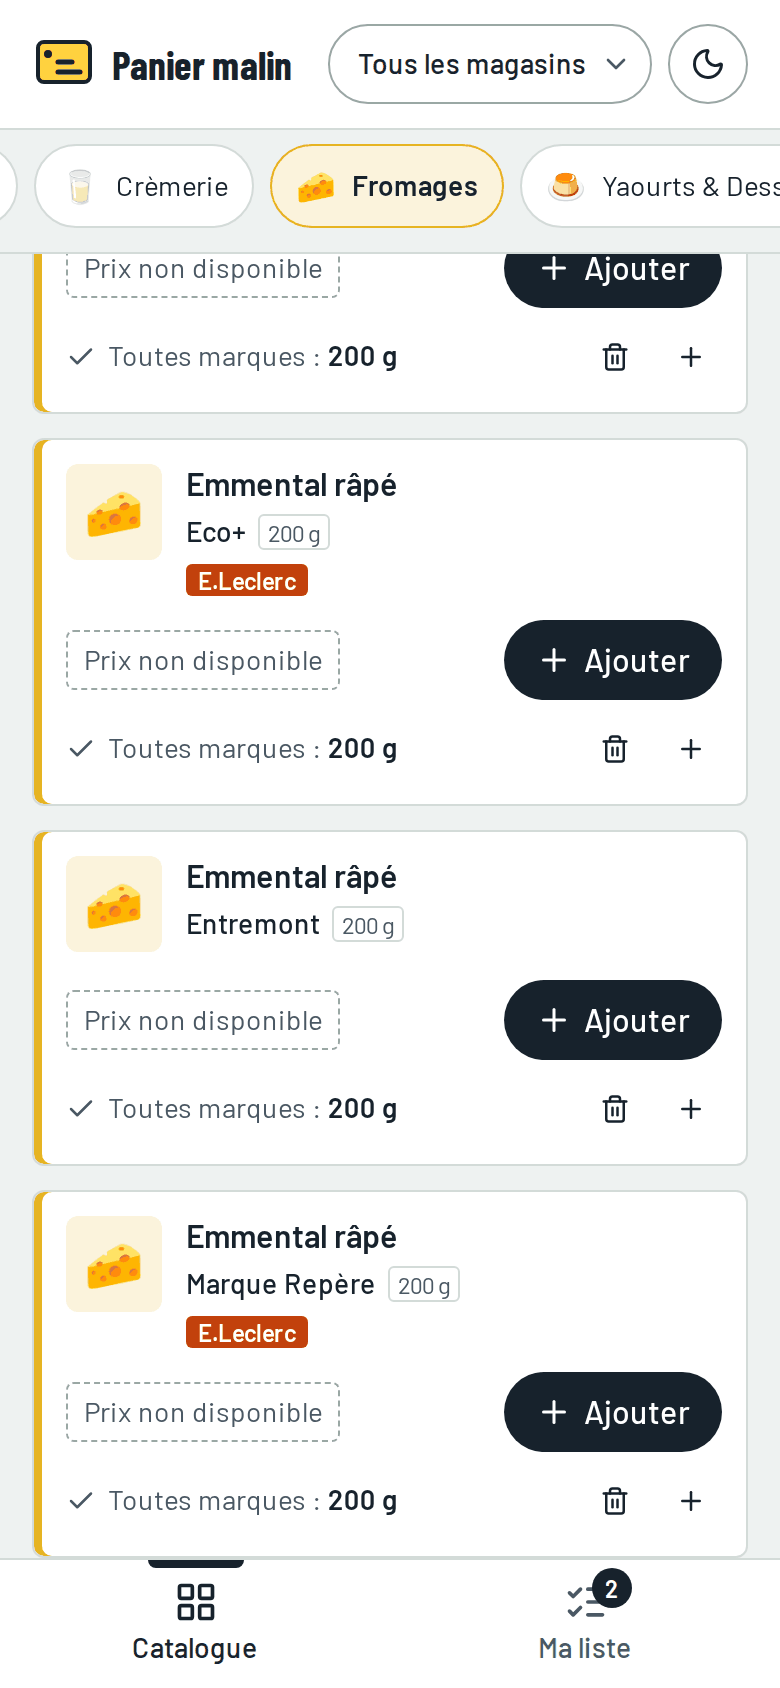
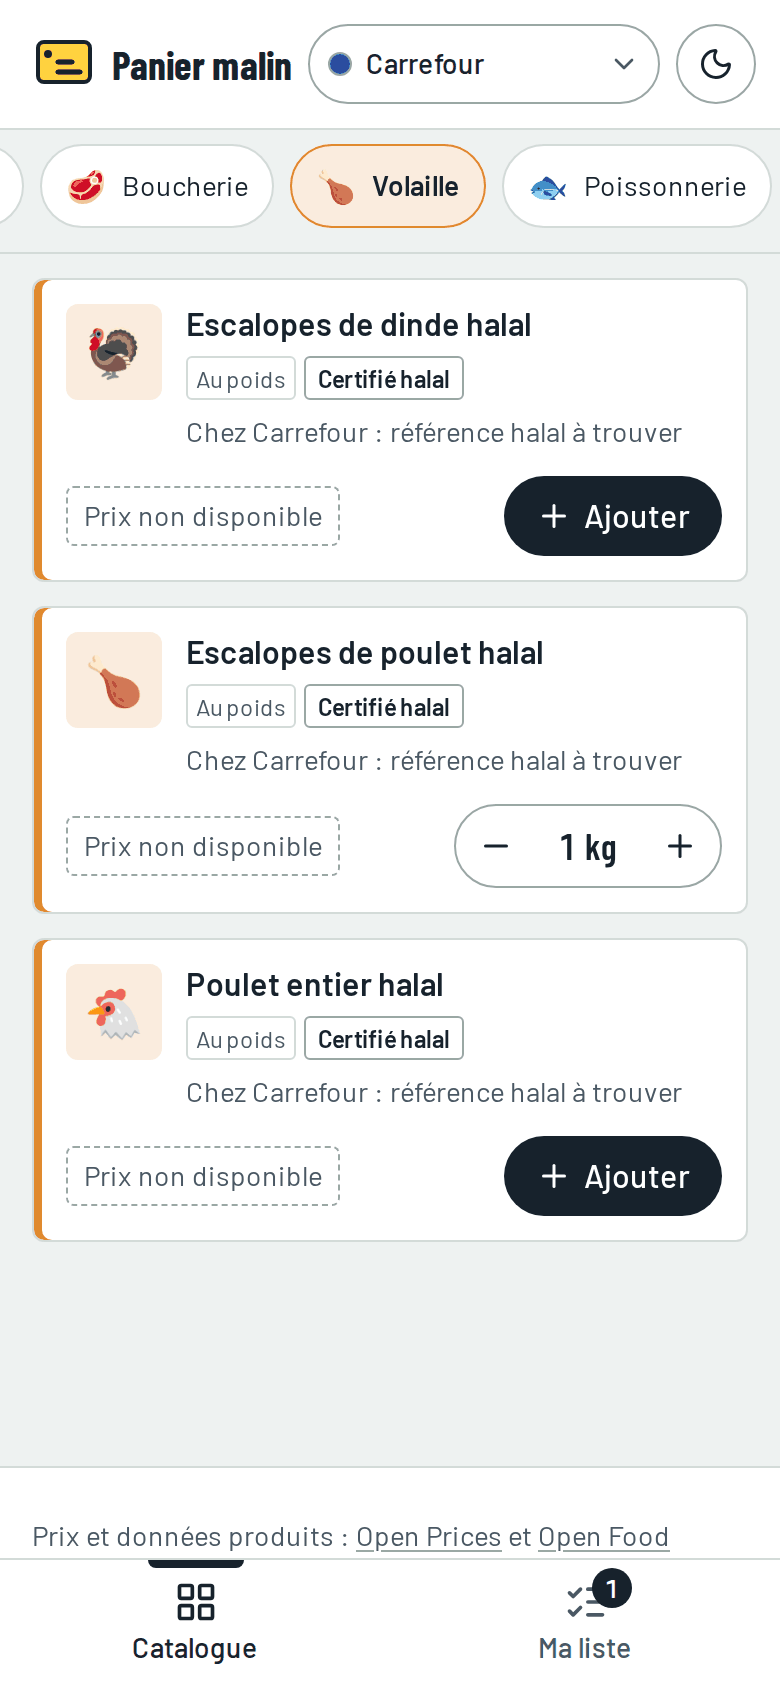
docs: décrit le catalogue halal et les fiches produit
README et guide de contribution : format des fiches et des références,
règles halal, choix de la gamme la moins chère. Modèles de tickets :
« Corriger une fiche ou une référence » remplace la correction
d'équivalence, l'ajout de produit demande la marque la moins chère de
chaque enseigne. Captures d'écran mises à jour.

diff --git a/README.md b/README.md
@@ -7,22 +7,20 @@ Application web libre, sans compte ni serveur : tout reste dans votre navigateur
 > **État du projet : étape 1 sur 6 terminée (catalogue).** Les prix Open Prices, le comparateur, le panier optimal et l'export PDF arrivent dans les étapes suivantes, décrites dans la [feuille de route](#feuille-de-route).
 
 <p>
-  <img src="docs/captures/catalogue-mobile.png" width="260" alt="Catalogue sur mobile : rayon Fromages, cartes produit avec étiquette de prix et bouton Ajouter">
+  <img src="docs/captures/catalogue-mobile.png" width="260" alt="Catalogue sur mobile : rayon Volaille, fiches certifiées halal, magasin Carrefour choisi">
   <img src="docs/captures/liste-mode-sombre.png" width="260" alt="Liste de la semaine en mode sombre, classée par rayon">
 </p>
-<img src="docs/captures/catalogue-ordinateur.png" width="800" alt="Catalogue sur ordinateur : colonne des rayons à gauche, recherche, filtres et grille de produits">
+<img src="docs/captures/catalogue-ordinateur.png" width="800" alt="Catalogue sur ordinateur : rayon Crèmerie, chaque fiche indique la marque à prendre chez Lidl">
 
 ## Ce que fait l'application aujourd'hui
 
-- **Catalogue de 711 produits courants** répartis dans 24 rayons, présentés dans l'ordre de passage en magasin : marques nationales, vrac et marques de distributeur de Carrefour, Lidl et E.Leclerc.
-- **Recherche instantanée**, insensible aux accents et aux majuscules, par nom, marque ou type de produit.
-- **Filtres** : rayon, magasin, bio, marques de distributeur. Le choix « Mon magasin », en haut de l'écran, ne montre que les produits vendus dans l'enseigne choisie.
-- **Deux façons d'ajouter un produit** : le produit précis (« ce lait Lactel ») ou « Peu importe la marque » (« du lait demi-écrémé »), que le comparateur pourra remplacer par l'équivalent le moins cher.
-- **Produits personnalisés** : saisissez un code-barres, l'application récupère le nom, la marque, la photo et le format sur Open Food Facts.
+- **Catalogue halal de 195 produits courants**, rangés dans 22 rayons présentés dans l'ordre de passage en magasin. Ni porc, ni alcool, ni gélatine de porc ; la viande et la volaille sont certifiées halal.
+- **Une fiche par produit** : vous ajoutez « Bananes » ou « Lait demi-écrémé UHT, 1 L », sans choisir de marque. Derrière chaque fiche, l'application connaît la gamme la moins chère de chaque enseigne (premier prix ou marque de l'enseigne), que le comparateur utilisera.
+- **Recherche instantanée**, insensible aux accents et aux majuscules, par nom de produit ou par marque.
+- **« Mon magasin »**, en haut de l'écran : chaque fiche indique alors quoi prendre en rayon dans cette enseigne (« Chez Lidl : Milbona »).
+- **Produits personnalisés** : pour un produit précis, saisissez son code-barres ; l'application récupère le nom, la marque, la photo et le format sur Open Food Facts.
 - **Liste de la semaine** classée par rayon, avec quantités à la pièce ou au poids.
 - Mode sombre, affichage adapté au téléphone, navigation complète au clavier et au lecteur d'écran.
-
-Les prix ne sont pas encore branchés : chaque carte affiche « Prix non disponible », et aucun prix n'est inventé.
 
 ## Feuille de route
 
@@ -65,7 +63,7 @@ L'application s'ouvre sur http://localhost:5173.
 ```
 src/
 ├── components/     composants d'interface (catalog, layout, providers, ui)
-├── data/           catalogue (products.json, equivalenceGroups.json), rayons, enseignes
+├── data/           catalogue (products.json), rayons, enseignes
 ├── hooks/          contextes React et état persistant
 ├── pages/          écrans : catalogue, liste
 ├── services/       logique métier pure et accès aux API, chacun avec ses tests
@@ -78,46 +76,53 @@ La logique métier (filtres, liste, calculs de prix, comparaison) vit dans `src/
 
 ## Le catalogue
 
-Le catalogue est un simple fichier, [`src/data/products.json`](src/data/products.json), modifiable par tous. Un produit ressemble à ceci :
+Le catalogue est un simple fichier, [`src/data/products.json`](src/data/products.json), modifiable par tous. Chaque ligne est une fiche produit :
 
 ```json
 {
-  "id": "lait-demi-ecreme-milbona-6x1l",
+  "id": "lait-demi-ecreme-uht",
   "name": "Lait demi-écrémé UHT",
-  "brand": "Milbona",
-  "brandType": "distributeur",
-  "enseignes": ["lidl"],
   "categoryId": "cremerie",
   "icon": "🥛",
-  "ean": "",
-  "pack": { "count": 6, "size": 1000, "unit": "ml" },
+  "pack": { "count": 1, "size": 1000, "unit": "ml" },
   "soldByWeight": false,
-  "equivalenceGroup": "lait-demi-ecreme",
-  "flags": { "bio": false, "halal": false }
+  "halal": false,
+  "references": [
+    { "enseigne": "carrefour", "brand": "Simpl", "ean": "" },
+    { "enseigne": "lidl", "brand": "Milbona", "ean": "" },
+    { "enseigne": "leclerc", "brand": "Eco+", "ean": "" }
+  ]
 }
 ```
 
-| Champ              | Signification                                                                        |
-| ------------------ | ------------------------------------------------------------------------------------ |
-| `id`               | Identifiant stable et lisible : groupe, marque, format                               |
-| `brandType`        | `nationale`, `distributeur` ou `sans-marque`                                         |
-| `enseignes`        | Enseignes qui vendent le produit ; liste vide pour un produit vendu partout          |
-| `ean`              | Code-barres EAN-8 ou EAN-13 ; chaîne vide tant qu'il n'a pas été vérifié             |
-| `pack`             | Conditionnement : `count` × `size` `unit` (`g`, `ml` ou `piece`)                     |
-| `soldByWeight`     | Vendu au poids : la quantité de la liste est exprimée en kg                          |
-| `equivalenceGroup` | Groupe des produits interchangeables, défini dans `equivalenceGroups.json`           |
-| `offCategoryTag`   | Pour le vrac : catégorie Open Food Facts utilisée par les prix au kilo d'Open Prices |
+| Champ               | Signification                                                                        |
+| ------------------- | ------------------------------------------------------------------------------------ |
+| `id`                | Identifiant stable et lisible, tiré du nom                                           |
+| `pack`              | Format courant : `count` × `size` `unit` (`g`, `ml` ou `piece`) ; 1 kg pour le vrac  |
+| `soldByWeight`      | Vendu au poids : la quantité de la liste est exprimée en kg                          |
+| `halal`             | Viande, volaille ou charcuterie certifiée halal                                      |
+| `references`        | Pour chaque enseigne, au plus une référence : sa gamme la moins chère connue         |
+| `references[].ean`  | Code-barres EAN-8 ou EAN-13 ; chaîne vide tant qu'il n'a pas été vérifié             |
+| `references[].pack` | Format de la référence, s'il diffère de celui de la fiche (couches par 44 ou par 48) |
+| `offCategoryTag`    | Pour le vrac : catégorie Open Food Facts utilisée par les prix au kilo d'Open Prices |
 
-Quelques règles, vérifiées automatiquement par les tests à chaque modification :
+Une fiche sans référence est normale pour le vrac (fruits, légumes, pain) et pour la viande halal, dont les références restent à trouver : son prix viendra des relevés au kilo d'Open Prices ou de vos propres saisies.
 
-- **Un code-barres n'est jamais inventé.** Tous les codes du catalogue initial sont vides : une étape dédiée proposera des codes issus d'Open Prices, relus par une personne avant d'être ajoutés. La clé de contrôle de chaque code saisi est vérifiée.
-- Une marque de distributeur indique toujours son enseigne ; une marque nationale n'en indique aucune.
-- Le format d'un produit doit correspondre à l'unité de comparaison de son groupe (kg, L ou pièce).
-- Les formats du catalogue initial sont des formats courants, pas des relevés : ils peuvent différer légèrement du produit en rayon.
+### Un catalogue halal
 
-Les enseignes H Market et Marka Market sont gérées avec les marques nationales du catalogue ; leurs marques propres pourront être ajoutées par des contributeurs qui les connaissent.
+Le catalogue partagé ne contient ni porc ni dérivés, aucune boisson alcoolisée, aucun produit à base de gélatine, et uniquement de la viande, de la volaille et de la charcuterie certifiées halal. Poissons, fruits de mer et fromages sont conservés. Ces règles sont vérifiées automatiquement par les tests à chaque modification du catalogue ; elles ne s'appliquent pas aux produits personnalisés, qui restent sur votre appareil.
 
-Pour ajouter un produit, une équivalence ou une enseigne, suivez le [guide de contribution](CONTRIBUTING.md) ou ouvrez un ticket avec le modèle correspondant.
+Les cas limites (arômes, additifs d'origine animale, alcool utilisé en cuisine) ne peuvent pas être détectés à partir du seul nom d'un produit : ils seront contrôlés avec les ingrédients et les labels d'Open Food Facts quand les codes-barres seront renseignés. La sauce soja, qui contient souvent de l'alcool de fermentation, a été écartée par prudence.
+
+### La référence la moins chère de chaque enseigne
+
+Tant que les prix réels ne sont pas chargés, « la moins chère » repose sur les gammes des enseignes : Simpl quand le produit existe dans cette gamme, sinon Carrefour Classic' chez Carrefour ; les marques propres de Lidl ; Eco+ quand le produit existe dans cette gamme, sinon Marque Repère chez E.Leclerc. Les marques nationales et le bio ne sont pas retenus. Ces choix seront vérifiés avec les prix d'Open Prices et corrigés au besoin.
+
+H Market et Marka Market sont gérées sans référence : je ne connais pas leurs marques propres. Leurs prix viendront de vos saisies, ou de contributeurs qui connaissent ces magasins.
+
+Autres règles vérifiées par les tests : **un code-barres n'est jamais inventé** (tous sont vides dans le catalogue initial, et la clé de contrôle de chaque code saisi est vérifiée), une seule référence par enseigne et par fiche, et des formats comparables entre une fiche et ses références. Les formats du catalogue initial sont des formats courants, pas des relevés : ils peuvent différer légèrement du produit en rayon.
+
+Pour ajouter une fiche ou corriger une référence, suivez le [guide de contribution](CONTRIBUTING.md) ou ouvrez un ticket avec le modèle correspondant.
 
 ## Données Open Prices et Open Food Facts
 
@@ -143,7 +148,7 @@ Vous pouvez enrichir ces bases vous-même sur [Open Prices](https://prices.openf
 Les règles ci-dessous ont été arrêtées avant l'implémentation ; elles seront codées dans `src/services/pricing.ts` et `src/services/comparator.ts`, avec leurs tests.
 
 - **Calculs en centimes entiers**, jamais en nombres à virgule, pour que les totaux tombent juste.
-- **Formats différents** : chaque prix est ramené au kilo, au litre ou à la pièce. Pour un article « peu importe la marque », le coût retenu est celui du conditionnement le moins cher couvrant le besoin : pour 3 L de lait, trois bouteilles de 1 L ou un pack de 6 L, selon ce qui revient le moins cher.
+- **Un prix par fiche et par magasin** : celui de la référence de l'enseigne, ou le prix au kilo du vrac. Quand le format de la référence diffère de celui de la fiche (couches par 44 ou par 48), le prix est ramené à l'unité, au kilo ou au litre avant d'être comparé.
 - **Choix du prix** : votre saisie manuelle passe d'abord ; puis le relevé le plus récent du magasin ; à défaut, un relevé d'un autre magasin de la même enseigne, signalé comme tel (option désactivable). Les prix promotionnels sont écartés, sauf si le prix hors promotion est connu.
 - **Deux modes de total** : « Articles communs » compare les magasins sur les seuls articles dont le prix est connu partout ; « Estimation complète » inclut tout ce qui est connu et affiche le taux de couverture.
 - **Panier optimal** : toutes les combinaisons de 1 à 3 magasins sont évaluées (175 combinaisons pour 10 magasins). La combinaison retenue couvre le plus d'articles, puis coûte le moins cher, chaque magasin supplémentaire devant faire économiser au moins le seuil choisi (par exemple 3 €). Les articles sans prix sont signalés « à vérifier ».

diff --git a/CONTRIBUTING.md b/CONTRIBUTING.md
@@ -2,7 +2,7 @@
 
 Merci de votre intérêt ! Vous pouvez aider sans écrire de code :
 
-- **signaler un produit manquant, un prix étrange ou une équivalence fausse** avec les modèles de tickets du dépôt ;
+- **signaler un produit manquant, un prix étrange ou une référence fausse** avec les modèles de tickets du dépôt ;
 - **ajouter des prix sur [Open Prices](https://prices.openfoodfacts.org)** : c'est la contribution la plus utile, elle profite à cette application comme à toutes les autres ;
 - **vérifier des codes-barres** du catalogue sur [Open Food Facts](https://world.openfoodfacts.org).
 
@@ -39,7 +39,7 @@ Corps facultatif : le pourquoi, plus que le comment.
 | `refactor`    | Réorganisation du code, sans changement de comportement       |
 | `test`        | Ajout ou correction de tests                                  |
 | `docs`        | Documentation                                                 |
-| `data`        | Catalogue : produits, équivalences, codes-barres              |
+| `data`        | Catalogue : fiches, références, codes-barres                  |
 | `ci`, `chore` | Intégration continue, outillage, dépendances                  |
 
 Portées courantes : `catalogue`, `liste`, `prix`, `comparateur`, `pdf`, `ui`.
@@ -51,40 +51,43 @@ Exemples : `feat(liste): duplique la liste de la semaine précédente`, `data(ca
 1. Créez une branche depuis `main` : `feat/historique-listes`, `data/codes-barres-cremerie`…
 2. Faites des commits petits et cohérents.
 3. Ouvrez une pull request en remplissant la liste de vérifications.
-4. Toute règle métier nouvelle ou modifiée (calcul de prix, équivalence, total, panier optimal) doit être couverte par un test.
+4. Toute règle métier nouvelle ou modifiée (calcul de prix, choix des références, total, panier optimal) doit être couverte par un test.
 
 ## Ajouter un produit au catalogue
 
-Le catalogue se trouve dans `src/data/products.json`, un produit par ligne.
+Le catalogue se trouve dans `src/data/products.json`, une fiche par ligne. Une fiche décrit un produit sans marque (« Lait demi-écrémé UHT, 1 L ») ; ses références indiquent quoi prendre dans chaque enseigne.
 
-1. **Vérifiez que le produit est courant** et vendu dans au moins une des enseignes gérées. Un produit que vous êtes seul à acheter a sa place dans vos produits personnalisés, pas dans le catalogue.
-2. **Rattachez-le à un groupe d'équivalence** de `src/data/equivalenceGroups.json`, ou créez-en un (voir plus bas).
-3. **Construisez l'identifiant** à partir du groupe, de la marque et du format, en minuscules, sans accents : `beurre-doux-president-250g`.
-4. **Renseignez le format** : `{ "count": 6, "size": 1000, "unit": "ml" }` pour un pack de 6 × 1 L. Les unités sont `g`, `ml` ou `piece`.
-5. **Pour une marque de distributeur**, indiquez son enseigne dans `enseignes` et mettez `brandType` à `distributeur`. Pour une marque nationale ou du vrac, laissez `enseignes` vide.
-6. **Le code-barres (`ean`)** : ne le remplissez que si vous l'avez lu sur l'emballage ou sur une fiche Open Food Facts dont la photo correspond bien au produit, dans ce format. En cas de doute, laissez `""`. Un code faux rattacherait au produit les prix d'un autre.
-7. Lancez `npm test` : le test du catalogue signale les doublons, les clés de contrôle fausses et les incohérences de format.
+1. **Vérifiez que le produit est courant** et respecte les règles halal ci-dessous. Un produit que vous êtes seul à acheter a sa place dans vos produits personnalisés, pas dans le catalogue.
+2. **Vérifiez qu'il n'a pas déjà sa fiche** : une fiche par produit et par usage. Le lait entier et le lait demi-écrémé ont deux fiches ; deux marques du même lait n'en ont qu'une.
+3. **Construisez l'identifiant** à partir du nom, en minuscules, sans accents : `beurre-doux`.
+4. **Renseignez le format courant** : `{ "count": 1, "size": 250, "unit": "g" }`. Les unités sont `g`, `ml` ou `piece` ; pour le vrac, `soldByWeight: true` et 1 kg.
+5. **Ajoutez les références** que vous connaissez (voir la section suivante).
+6. Lancez `npm test` : le test du catalogue signale les doublons, les clés de contrôle fausses, les formats incohérents et les produits non halal.
 
 **Ne copiez pas de données depuis les sites des enseignes.** Leurs conditions d'utilisation l'interdisent généralement et leurs bases de données sont protégées. Les emballages, Open Food Facts et Open Prices sont les bonnes sources.
 
-## Créer ou corriger un groupe d'équivalence
+## Choisir la référence d'une enseigne
 
-Un groupe réunit des produits **interchangeables pour un usage courant**, qu'on accepterait l'un pour l'autre quand on choisit « Peu importe la marque ».
-
-- Oui : tous les laits demi-écrémés UHT, quelle que soit la marque ou la taille du pack.
-- Non : un lait bio et un lait conventionnel (deux groupes), des spaghetti et des spaghetti complets, du beurre doux et du beurre demi-sel.
-- Tous les produits d'un groupe partagent le même rayon et la même unité de comparaison (`kg`, `L` ou `piece`), déclarés dans le groupe :
+Chaque fiche a **au plus une référence par enseigne : sa gamme la moins chère** pour ce produit, en général le premier prix (Simpl chez Carrefour, Eco+ chez E.Leclerc) ou la marque de l'enseigne (Carrefour Classic', Marque Repère, les marques Lidl).
 
 ```json
-{
-  "id": "lait-demi-ecreme",
-  "label": "Lait demi-écrémé UHT",
-  "categoryId": "cremerie",
-  "refUnit": "L"
-}
+{ "enseigne": "lidl", "brand": "Milbona", "ean": "" }
 ```
 
-L'identifiant du groupe ne contient pas de format : la comparaison entre tailles différentes est calculée automatiquement.
+- `brand` : la marque telle qu'elle est imprimée sur l'emballage.
+- `ean` : ne le remplissez que si vous l'avez lu sur l'emballage ou sur une fiche Open Food Facts dont la photo correspond bien au produit, dans ce format. En cas de doute, laissez `""` : un code faux rattacherait à la fiche les prix d'un autre produit.
+- `pack` : seulement si le format diffère de celui de la fiche (des couches par 48 au lieu de 44), pour que le prix soit ramené à l'unité.
+- Si un relevé de prix montre qu'une autre gamme de l'enseigne est moins chère, remplacez la référence plutôt que d'en ajouter une seconde.
+
+## Règles halal
+
+Le catalogue partagé est halal. Une fiche est refusée par les tests si son nom évoque :
+
+- le porc et ses dérivés (lardons, rillettes, chipolatas, gélatine) ;
+- une boisson alcoolisée (bière, vin, cidre, spiritueux) ;
+- une viande ou une volaille non certifiée halal : toute fiche des rayons Boucherie et Volaille, et toute fiche qui contient de la viande, doit avoir `"halal": true`.
+
+Le jambon et le saucisson ne sont acceptés que certifiés halal (jambon de dinde halal, par exemple). Les fromages, poissons et fruits de mer sont acceptés. Pour les cas que le nom ne permet pas de trancher (arômes, additifs, alcool de cuisson), vérifiez la liste d'ingrédients et les labels sur Open Food Facts avant de proposer la fiche.
 
 ## Ajouter une enseigne
 

diff --git a/.github/pull_request_template.md b/.github/pull_request_template.md
@@ -7,4 +7,5 @@
 - [ ] `npm run lint`, `npm run typecheck` et `npm test` passent
 - [ ] La logique métier nouvelle ou modifiée est couverte par des tests
 - [ ] Aucun code-barres non vérifié n'a été ajouté au catalogue
+- [ ] Les fiches ajoutées respectent les règles halal (ni porc, ni alcool, viande certifiée)
 - [ ] L'interface reste utilisable au clavier et sur mobile
